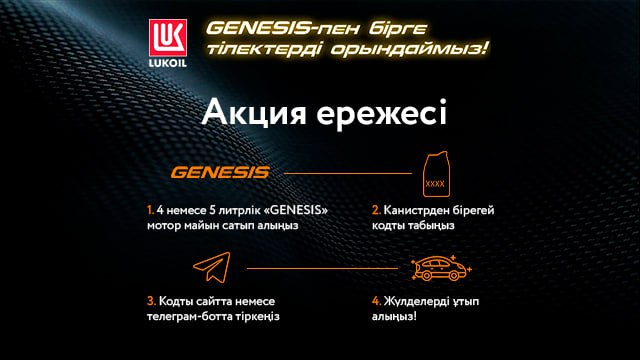
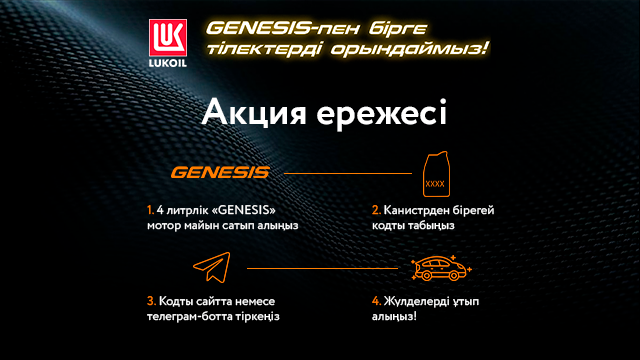
assets update

diff --git a/src/modules/bot/helpers/localeDonors/ru.ts b/src/modules/bot/helpers/localeDonors/ru.ts
@@ -1,7 +1,7 @@
 export const ru = {
   about: '❗Об акции',
   about_details:
-    'Для участия в Акции:\n\n1. Приобретайте моторное масло линейки «Genesis», объемом 4 или 5 л. \n2. Найдите уникальный код на канистре. \n3. Пройдите короткую регистрацию в телеграм-боте и введи номер с канистры.\n4. Ждите результаты еженедельных розыгрышей призов!\nАкция проводится в период с 10 октября по 10 декабря 2024 года включительно! ',
+    'Для участия в Акции:\n\n1. Приобретайте моторное масло линейки «Genesis», объемом 4 л\n2. Найдите уникальный код на канистре. \n3. Пройдите короткую регистрацию в телеграм-боте и введи номер с канистры.\n4. Ждите результаты еженедельных розыгрышей призов!\nАкция проводится в период с 10 октября по 10 декабря 2024 года включительно! ',
   accept: 'Принять',
   add_ticket_reply: 'Добавить ответ',
   add_ticket_reply_content: 'Отправь текст ответа',

diff --git a/src/modules/bot/helpers/localeDonors/kz.ts b/src/modules/bot/helpers/localeDonors/kz.ts
@@ -1,7 +1,7 @@
 export const kz = {
   about: '❗Акция туралы',
   about_details:
-    'Акцияға қатысу үшін:\n \n 1. 4 немесе 5 литрлік "Genesis" желісінің мотор майын алыңыз. \n 2. Канистрден бірегей кодты табыңыз. \n 3. Телеграм-ботта қысқа тіркеуден өтіп, канистрдегі нөмірді енгізіңіз.\n 4. Апта сайынғы ұтыс ойындарының нәтижелерін күтіңіз!\n Акция 2024 жылғы 10 қазан мен 10 желтоқсан аралығындағы кезеңде өткізіледі!',
+    'Акцияға қатысу үшін:\n\n 1. 4 литрлік "Genesis" желісінің мотор майын алыңыз.\n2. Канистрден бірегей кодты табыңыз.\n 3. Телеграм-ботта қысқа тіркеуден өтіп, канистрдегі нөмірді енгізіңіз.\n 4. Апта сайынғы ұтыс ойындарының нәтижелерін күтіңіз!\n Акция 2024 жылғы 10 қазан мен 10 желтоқсан аралығындағы кезеңде өткізіледі!',
   accept: 'Кабылдау',
   add_ticket_reply: 'Жауап қосу',
   add_ticket_reply_content: 'Жауап мәтінін жібер',

diff --git a/src/modules/winner/winner.controller.ts b/src/modules/winner/winner.controller.ts
@@ -10,12 +10,12 @@ import { UpdateWinnerDto } from './dto/update-winner.dto';
   path: 'winner',
   version: '1',
 })
-@ApiBearerAuth()
 export class WinnerController {
   constructor(private readonly winnerService: WinnerService) {}
 
   @Put(':id')
   @UseGuards(JwtAuthGuard)
+  @ApiBearerAuth()
   @ApiExcludeEndpoint()
   update(@Param('id') id: string, @Body() updateWinnerDto: UpdateWinnerDto) {
     return this.winnerService.update(+id, updateWinnerDto);
@@ -28,6 +28,7 @@ export class WinnerController {
 
   @Delete(':id')
   @UseGuards(JwtAuthGuard)
+  @ApiBearerAuth()
   @ApiExcludeEndpoint()
   remove(@Param('id') id: string) {
     return this.winnerService.remove(+id);
@@ -35,6 +36,7 @@ export class WinnerController {
 
   @Get('me')
   @UseGuards(JwtAuthGuard)
+  @ApiBearerAuth()
   @ApiResponse({
     status: 200,
     type: RetrieveWinnerDto,
